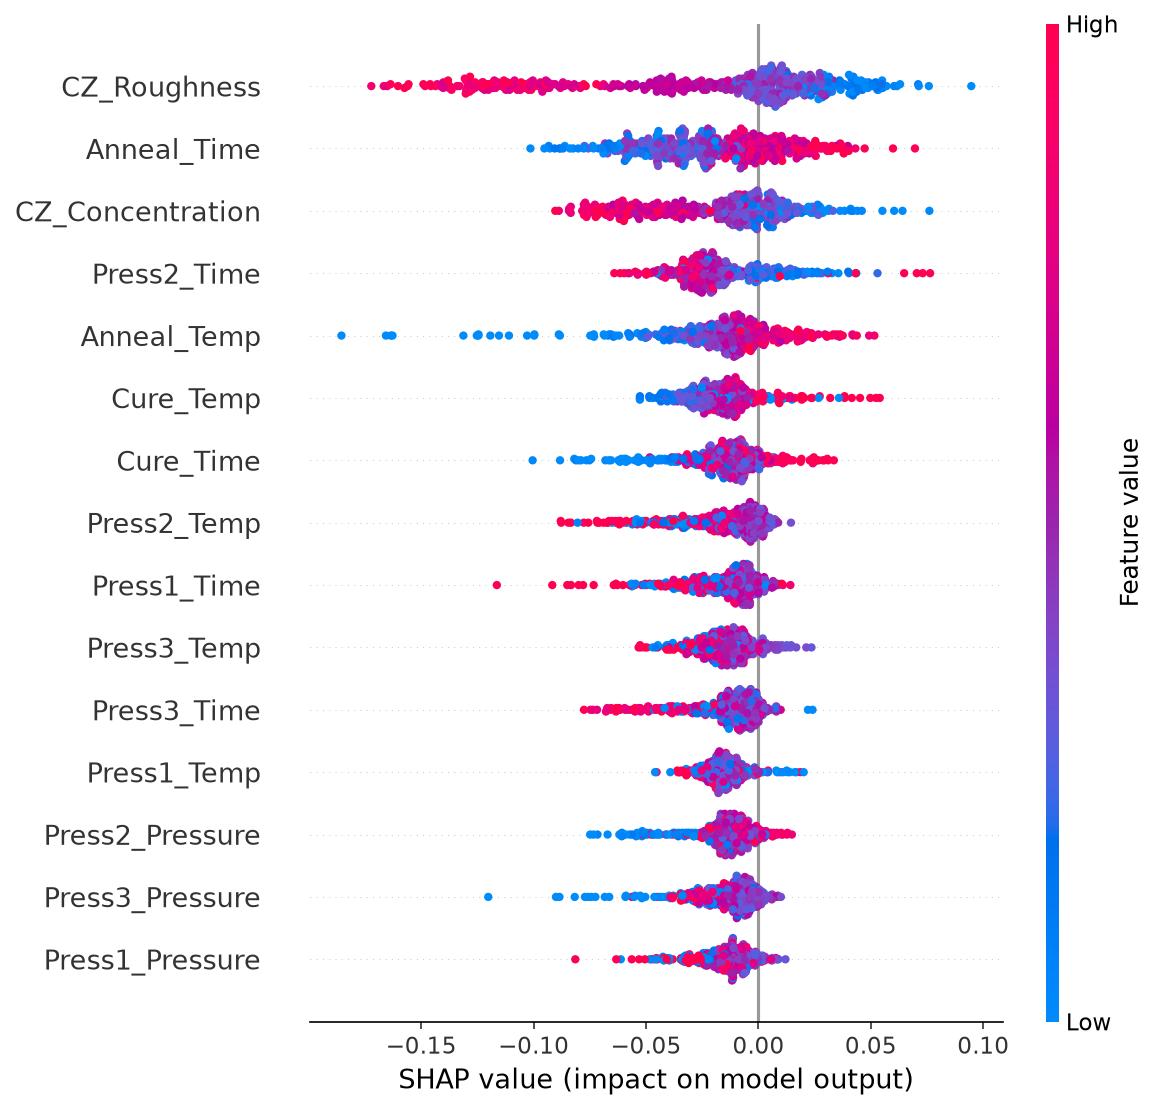
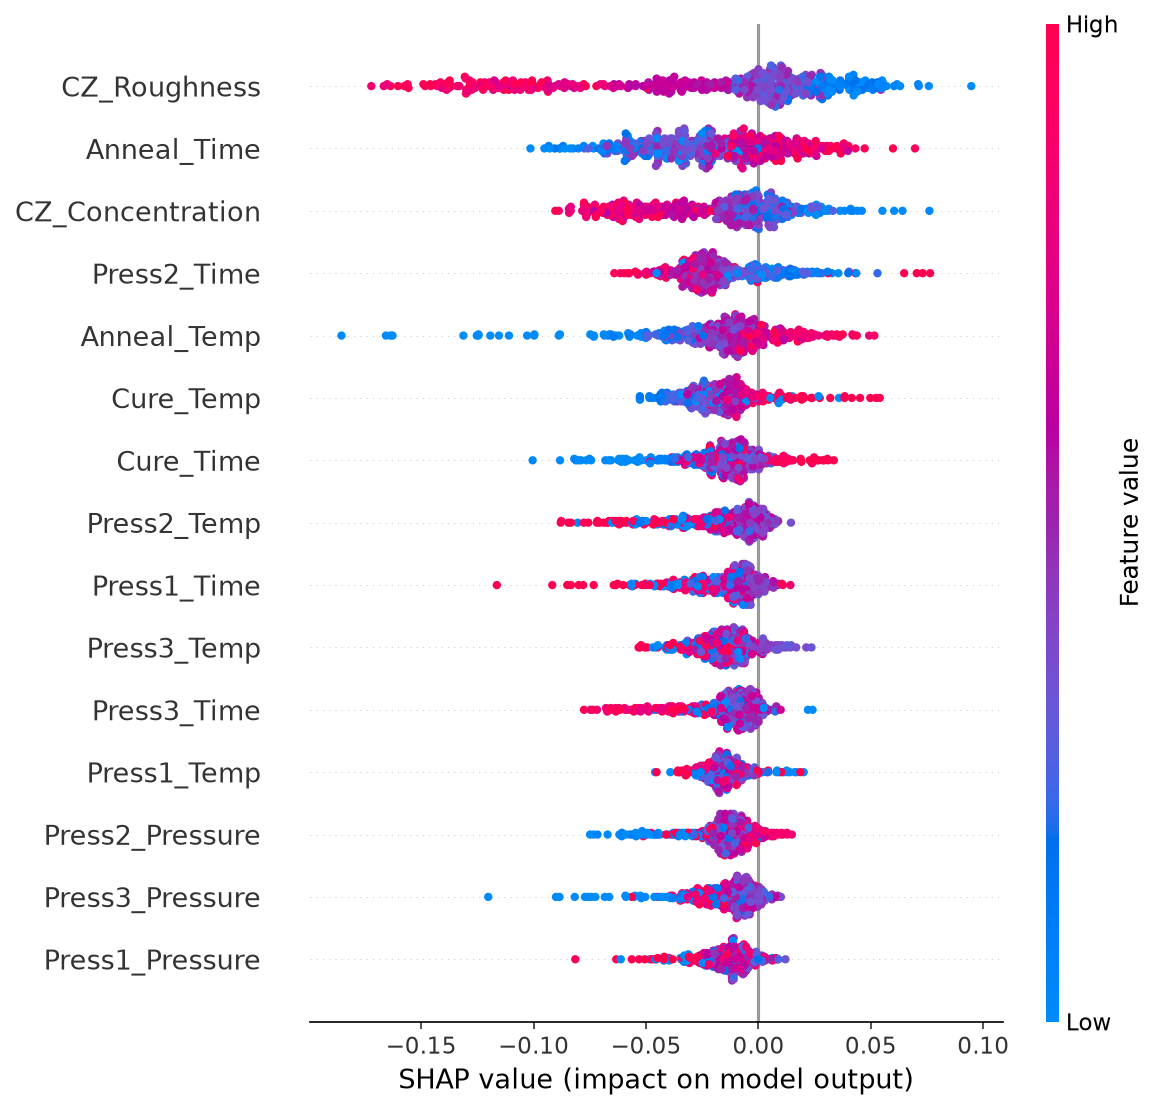
refactor: Load manufacturing data from SQLite

Changed region(s): [[0.4974, 0.0613, 0.7461, 0.8883], [0.3731, 0.0613, 0.5285, 0.0919]]

diff --git a/src/data/loader.py b/src/data/loader.py
@@ -1,4 +1,5 @@
 from pathlib import Path
+import sqlite3
 
 import pandas as pd
 
@@ -8,6 +9,7 @@ REQUIRED_COLUMNS = [
     "Model",
     "Machine",
     "CZ_Concentration",
+    "CZ_Roughness",
     "Press1_Temp",
     "Press1_Time",
     "Press1_Pressure",
@@ -21,7 +23,6 @@ REQUIRED_COLUMNS = [
     "Cure_Time",
     "Anneal_Time",
     "Anneal_Temp",
-    "CZ_Roughness",
     "Total_Thickness",
     "Peel_Strength",
     "ABF_Roughness",
@@ -31,111 +32,157 @@ REQUIRED_COLUMNS = [
 ]
 
 
-def get_data_path() -> Path:
-    """프로젝트의 공정 데이터 파일 경로를 반환합니다."""
-    project_root = Path(__file__).resolve().parents[2]
-    return project_root / "Data" / "process_monitoring_data.csv"
+def get_project_root() -> Path:
+    return Path(__file__).resolve().parents[2]
 
 
-def load_process_data(file_path: Path | None = None) -> pd.DataFrame:
-    """CSV 파일을 불러오고 기본 유효성을 검사합니다."""
-    path = file_path or get_data_path()
+def get_database_path() -> Path:
+    return (
+        get_project_root()
+        / "database"
+        / "manufacturing_ai.db"
+    )
 
-    if not path.exists():
+
+def get_csv_path() -> Path:
+    return (
+        get_project_root()
+        / "Data"
+        / "process_monitoring_data.csv"
+    )
+
+
+def load_from_database() -> pd.DataFrame:
+    database_path = get_database_path()
+
+    if not database_path.exists():
         raise FileNotFoundError(
-            f"데이터 파일을 찾을 수 없습니다: {path}\n"
-            "먼저 generate_process_data.py를 실행하세요."
+            f"데이터베이스가 없습니다: {database_path}"
         )
 
-    df = pd.read_csv(path)
+    with sqlite3.connect(database_path) as connection:
+        table_check_query = """
+        SELECT name
+        FROM sqlite_master
+        WHERE type = 'table'
+          AND name = 'process_data'
+        """
 
-    if df.empty:
-        raise ValueError("데이터가 비어 있습니다.")
+        table_exists = pd.read_sql_query(
+            table_check_query,
+            connection,
+        )
 
-    missing_columns = [
-        column for column in REQUIRED_COLUMNS if column not in df.columns
-    ]
+        if table_exists.empty:
+            raise ValueError(
+                "데이터베이스에 process_data 테이블이 없습니다."
+            )
 
-    if missing_columns:
-        raise ValueError(
-            f"필수 컬럼이 누락되었습니다: {missing_columns}"
+        df = pd.read_sql_query(
+            "SELECT * FROM process_data",
+            connection,
         )
 
     return df
 
 
-def print_data_summary(df: pd.DataFrame) -> None:
-    """데이터의 구조와 품질을 요약 출력합니다."""
-    print("=" * 60)
-    print("1. 데이터 크기")
-    print("=" * 60)
-    print(f"행 수: {len(df):,}")
-    print(f"열 수: {len(df.columns)}")
+def load_from_csv() -> pd.DataFrame:
+    csv_path = get_csv_path()
 
-    print("\n" + "=" * 60)
-    print("2. 컬럼 목록")
-    print("=" * 60)
-    for index, column in enumerate(df.columns, start=1):
-        print(f"{index:02d}. {column}")
+    if not csv_path.exists():
+        raise FileNotFoundError(
+            f"CSV 파일이 없습니다: {csv_path}"
+        )
 
-    print("\n" + "=" * 60)
-    print("3. 결측치")
-    print("=" * 60)
-    missing = df.isna().sum()
-    missing = missing[missing > 0]
+    return pd.read_csv(csv_path)
 
-    if missing.empty:
-        print("결측치 없음")
-    else:
-        print(missing)
 
-    print("\n" + "=" * 60)
-    print("4. 중복 LOT_ID")
-    print("=" * 60)
+def validate_process_data(
+    df: pd.DataFrame,
+) -> pd.DataFrame:
+    if df.empty:
+        raise ValueError("불러온 데이터가 비어 있습니다.")
+
+    missing_columns = [
+        column
+        for column in REQUIRED_COLUMNS
+        if column not in df.columns
+    ]
+
+    if missing_columns:
+        raise ValueError(
+            "필수 컬럼이 누락되었습니다:\n"
+            f"{missing_columns}"
+        )
+
     duplicated_lots = df["LOT_ID"].duplicated().sum()
-    print(f"중복 LOT 수: {duplicated_lots:,}")
 
-    print("\n" + "=" * 60)
-    print("5. Defect 분포")
+    if duplicated_lots > 0:
+        raise ValueError(
+            f"중복 LOT_ID가 {duplicated_lots:,}개 있습니다."
+        )
+
+    return df
+
+
+def load_process_data(
+    source: str = "database",
+) -> pd.DataFrame:
+    """
+    제조 데이터를 불러옵니다.
+
+    source:
+        database : SQLite에서 조회
+        csv      : CSV에서 조회
+        auto     : SQLite 우선, 없으면 CSV 사용
+    """
+
+    if source == "database":
+        df = load_from_database()
+
+    elif source == "csv":
+        df = load_from_csv()
+
+    elif source == "auto":
+        try:
+            df = load_from_database()
+        except (FileNotFoundError, ValueError):
+            df = load_from_csv()
+
+    else:
+        raise ValueError(
+            "source는 'database', 'csv', 'auto' 중 하나여야 합니다."
+        )
+
+    return validate_process_data(df)
+
+
+def print_data_summary(
+    df: pd.DataFrame,
+) -> None:
     print("=" * 60)
-    defect_summary = df["Defect"].value_counts(dropna=False)
-    defect_ratio = (
-        df["Defect"]
-        .value_counts(normalize=True, dropna=False)
-        .mul(100)
-        .round(2)
+    print("Process Data Summary")
+    print("=" * 60)
+    print(f"Rows: {len(df):,}")
+    print(f"Columns: {len(df.columns):,}")
+    print(f"Missing Values: {df.isna().sum().sum():,}")
+    print(f"Duplicated LOTs: {df['LOT_ID'].duplicated().sum():,}")
+    print()
+
+    print("Defect Distribution")
+    print(df["Defect"].value_counts())
+    print()
+
+    print(f"Average Yield: {df['Yield'].mean():.3f}")
+
+
+def main() -> None:
+    process_df = load_process_data(
+        source="database",
     )
 
-    defect_table = pd.DataFrame({
-        "Count": defect_summary,
-        "Ratio_%": defect_ratio,
-    })
-    print(defect_table)
-
-    print("\n" + "=" * 60)
-    print("6. Yield 요약")
-    print("=" * 60)
-    print(df["Yield"].describe().round(3))
-
-    print("\n" + "=" * 60)
-    print("7. 주요 품질 인자 요약")
-    print("=" * 60)
-    quality_columns = [
-        "CZ_Roughness",
-        "Total_Thickness",
-        "Peel_Strength",
-        "ABF_Roughness",
-        "Delam_Panel_Count",
-        "Yield",
-    ]
-    print(df[quality_columns].describe().round(3).T)
-
-    print("\n" + "=" * 60)
-    print("8. 데이터 샘플")
-    print("=" * 60)
-    print(df.head())
+    print_data_summary(process_df)
 
 
 if __name__ == "__main__":
-    process_df = load_process_data()
-    print_data_summary(process_df)
+    main()